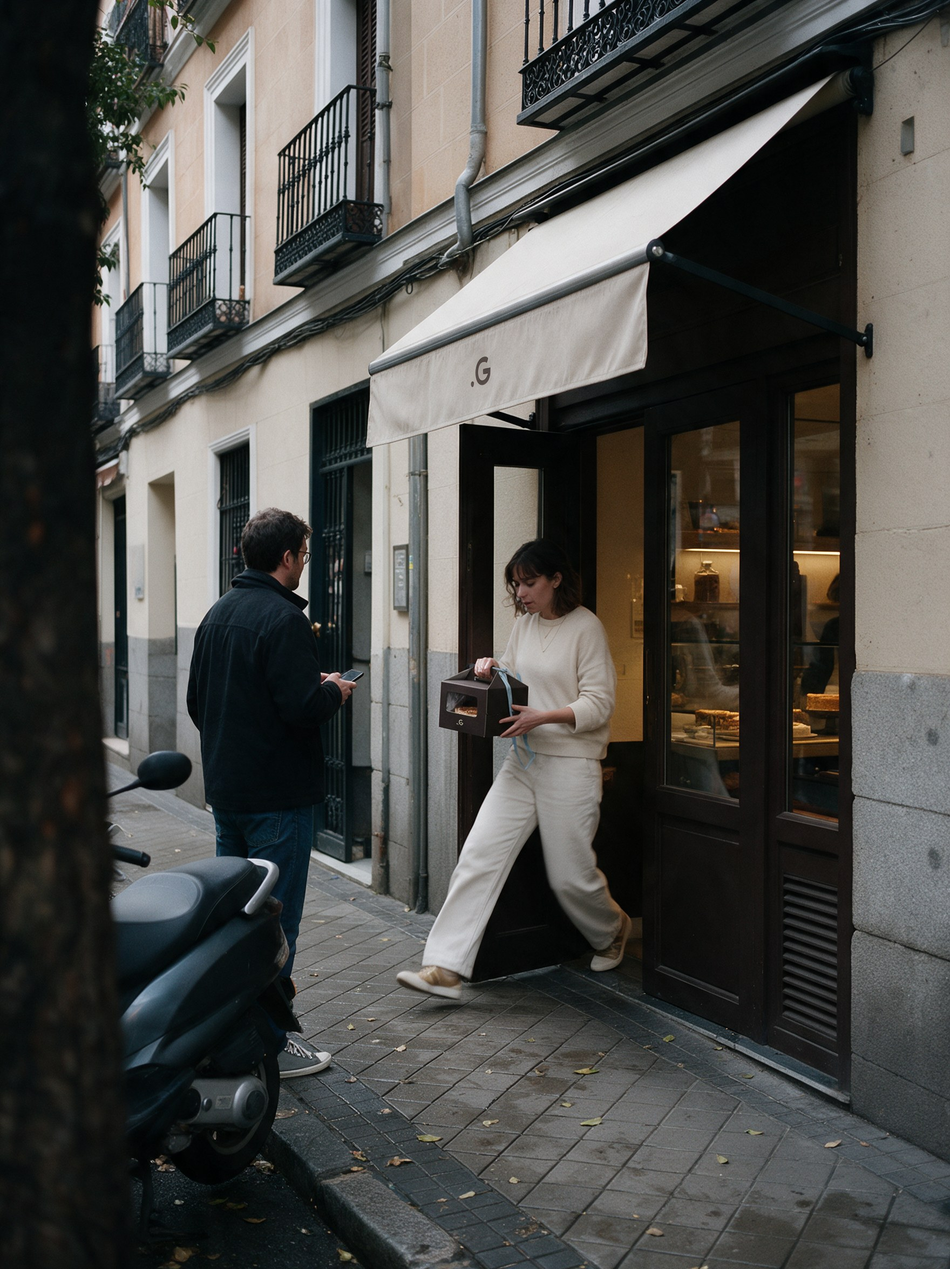
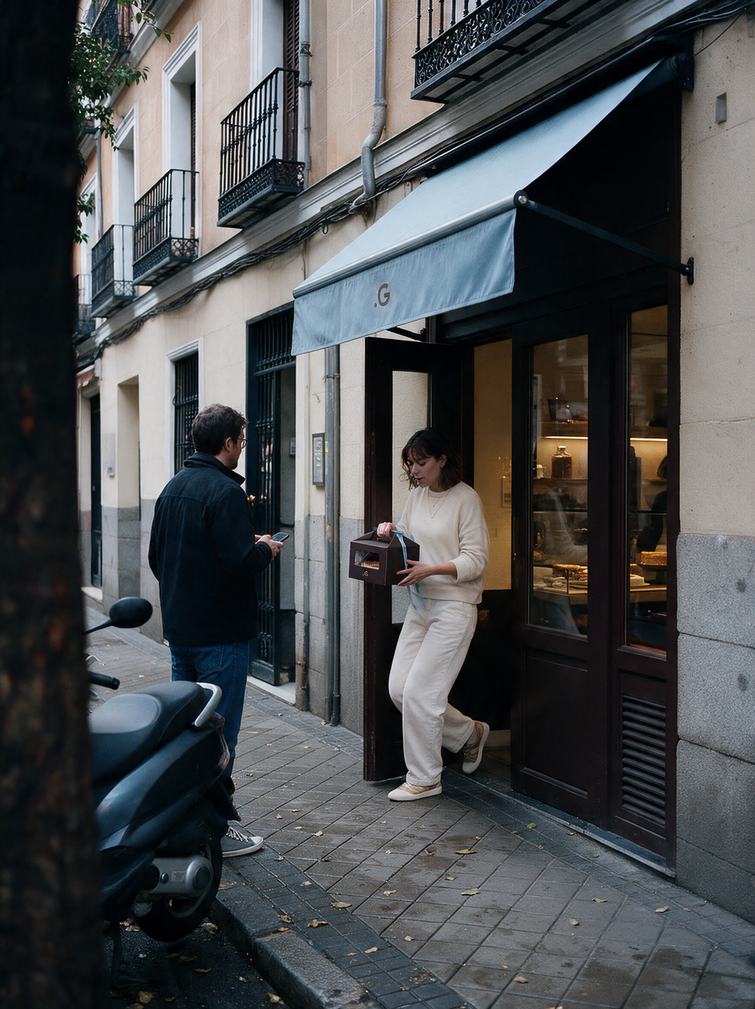
Añadir pegatina y toldo azul al branding de .G
Claude-Session: https://claude.ai/code/session_01E87JHznKSvFccaWZZfDHhp

diff --git a/src/data/gallery-captions.ts b/src/data/gallery-captions.ts
@@ -16,6 +16,7 @@ const captions: Record<string, Caption> = {
 	'02-punto-g/branding/mesa-logo.jpg': { es: 'Logotipo', en: 'Logo' },
 	'02-punto-g/branding/Mockup_poste.png': { es: 'Cartelería', en: 'Poster' },
 	'02-punto-g/branding/cajas.jpg': { es: 'Packaging', en: 'Packaging' },
+	'02-punto-g/branding/pegatina.jpg': { es: 'Pegatina de cierre', en: 'Seal sticker' },
 	'02-punto-g/branding/calle.jpg': { es: 'La marca en la calle', en: 'The brand on the street' },
 	// Gea Artesanía
 	'03-gea-artesania/branding/branding-02.jpg': { es: 'Tarjeta de producto', en: 'Product card' },

diff --git a/src/data/projects/02-g/project.ts b/src/data/projects/02-g/project.ts
@@ -23,6 +23,7 @@ const project: ProjectFolderMetadata = {
 				'Color_brown.jpg',
 				'cajas.jpg',
 				'mesa-logo.jpg',
+				'pegatina.jpg',
 				'calle.jpg',
 				'Mockup_poste.png'
 			]
